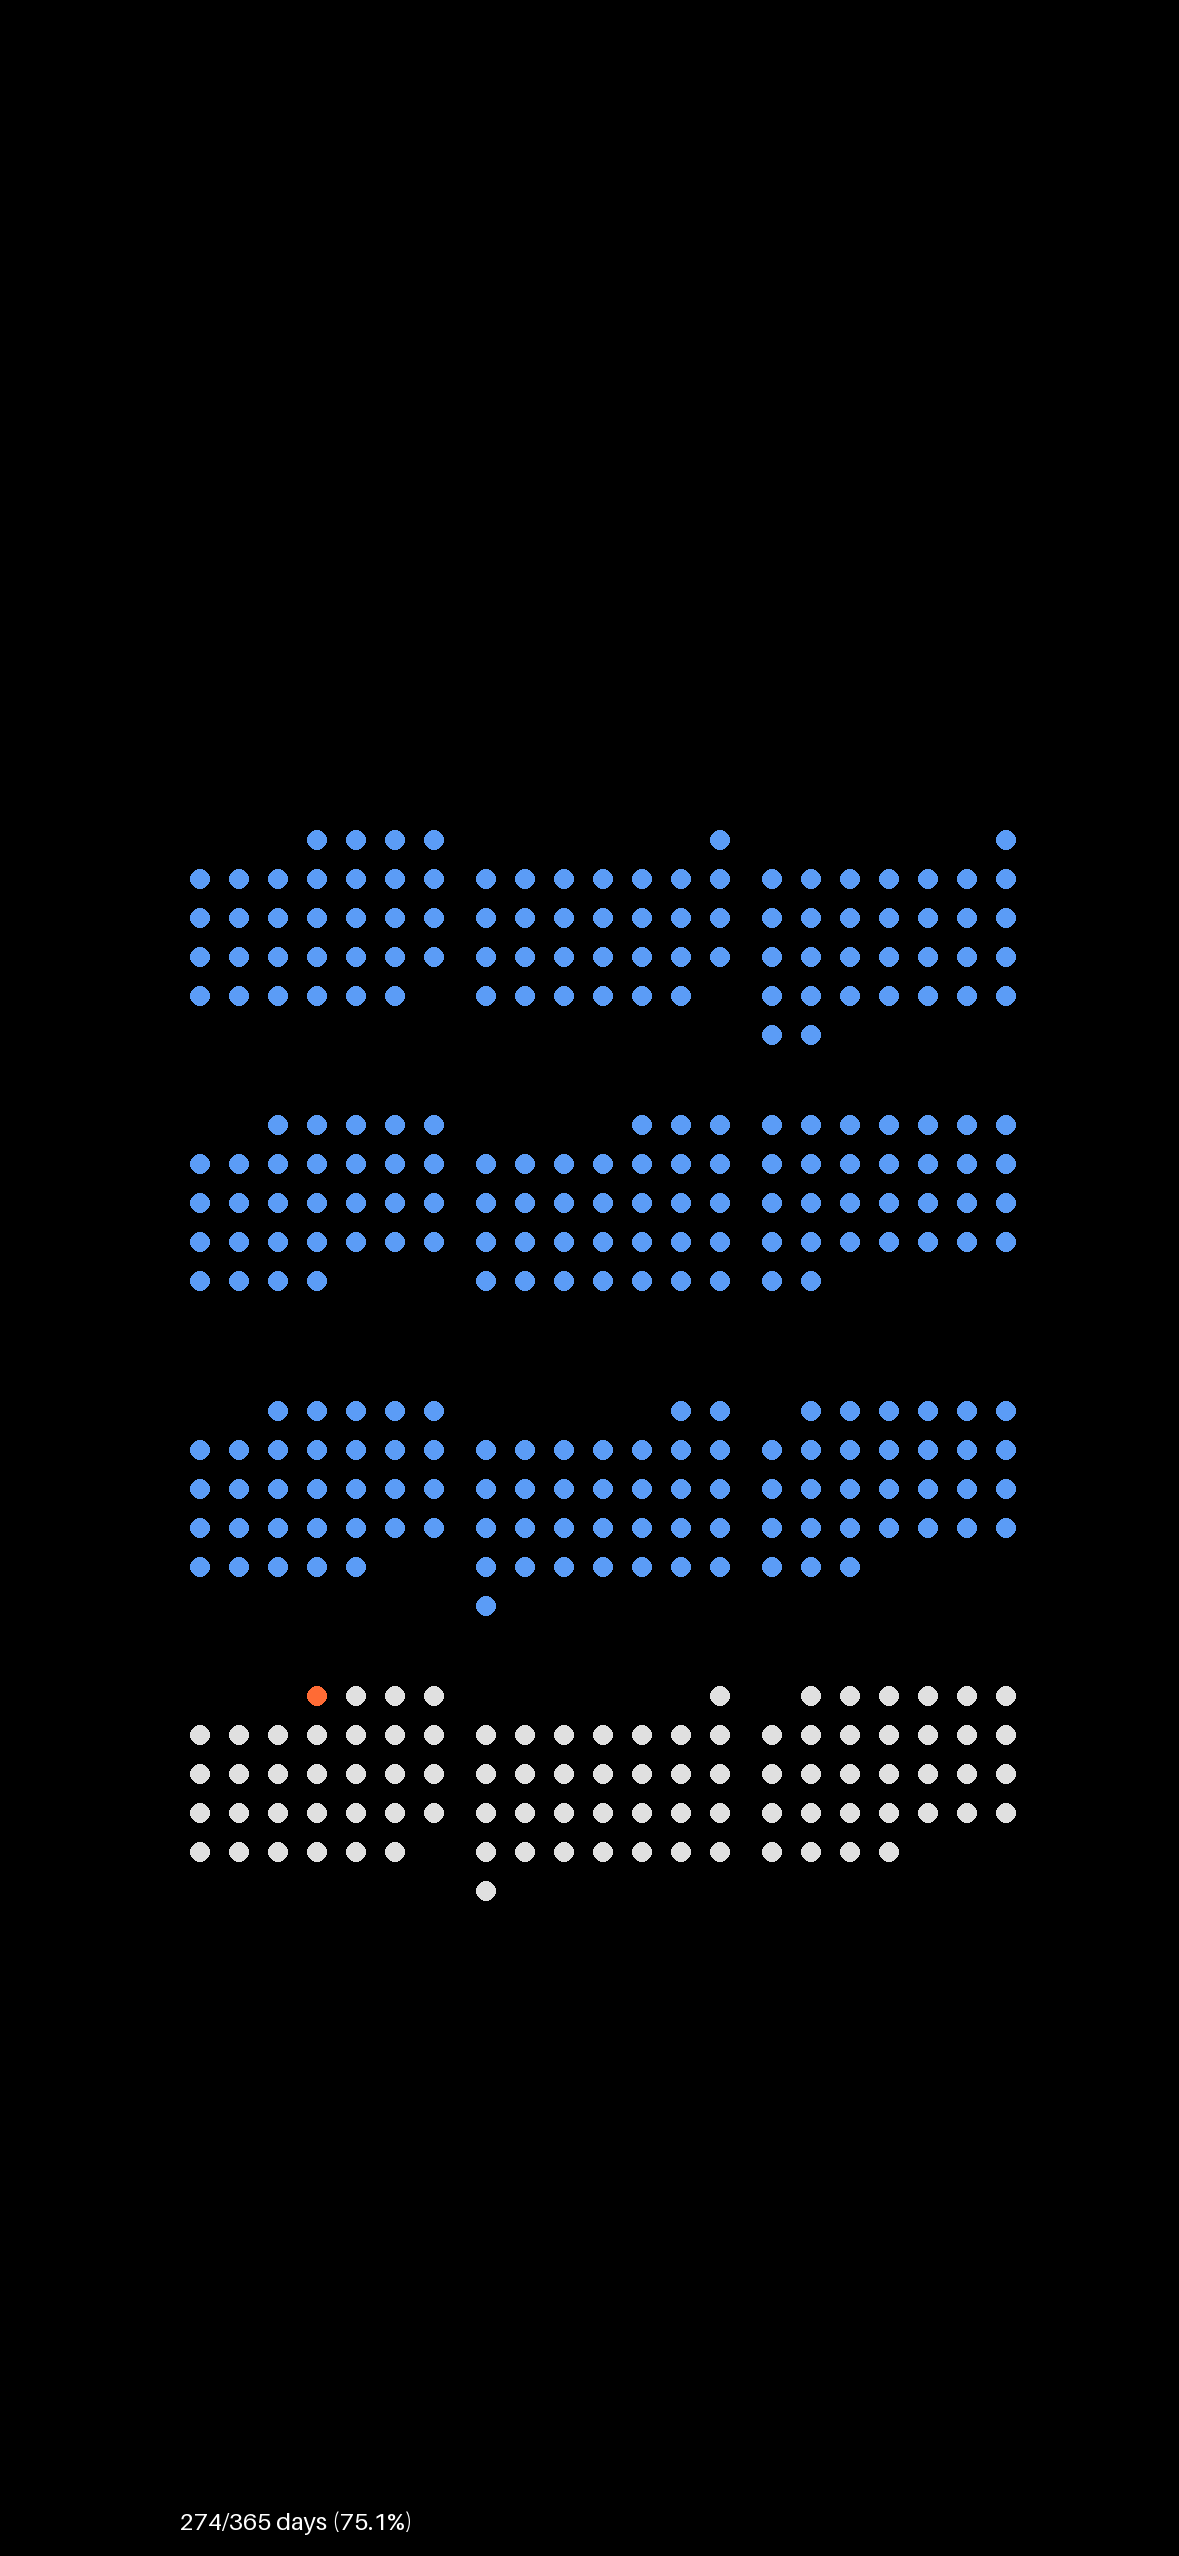
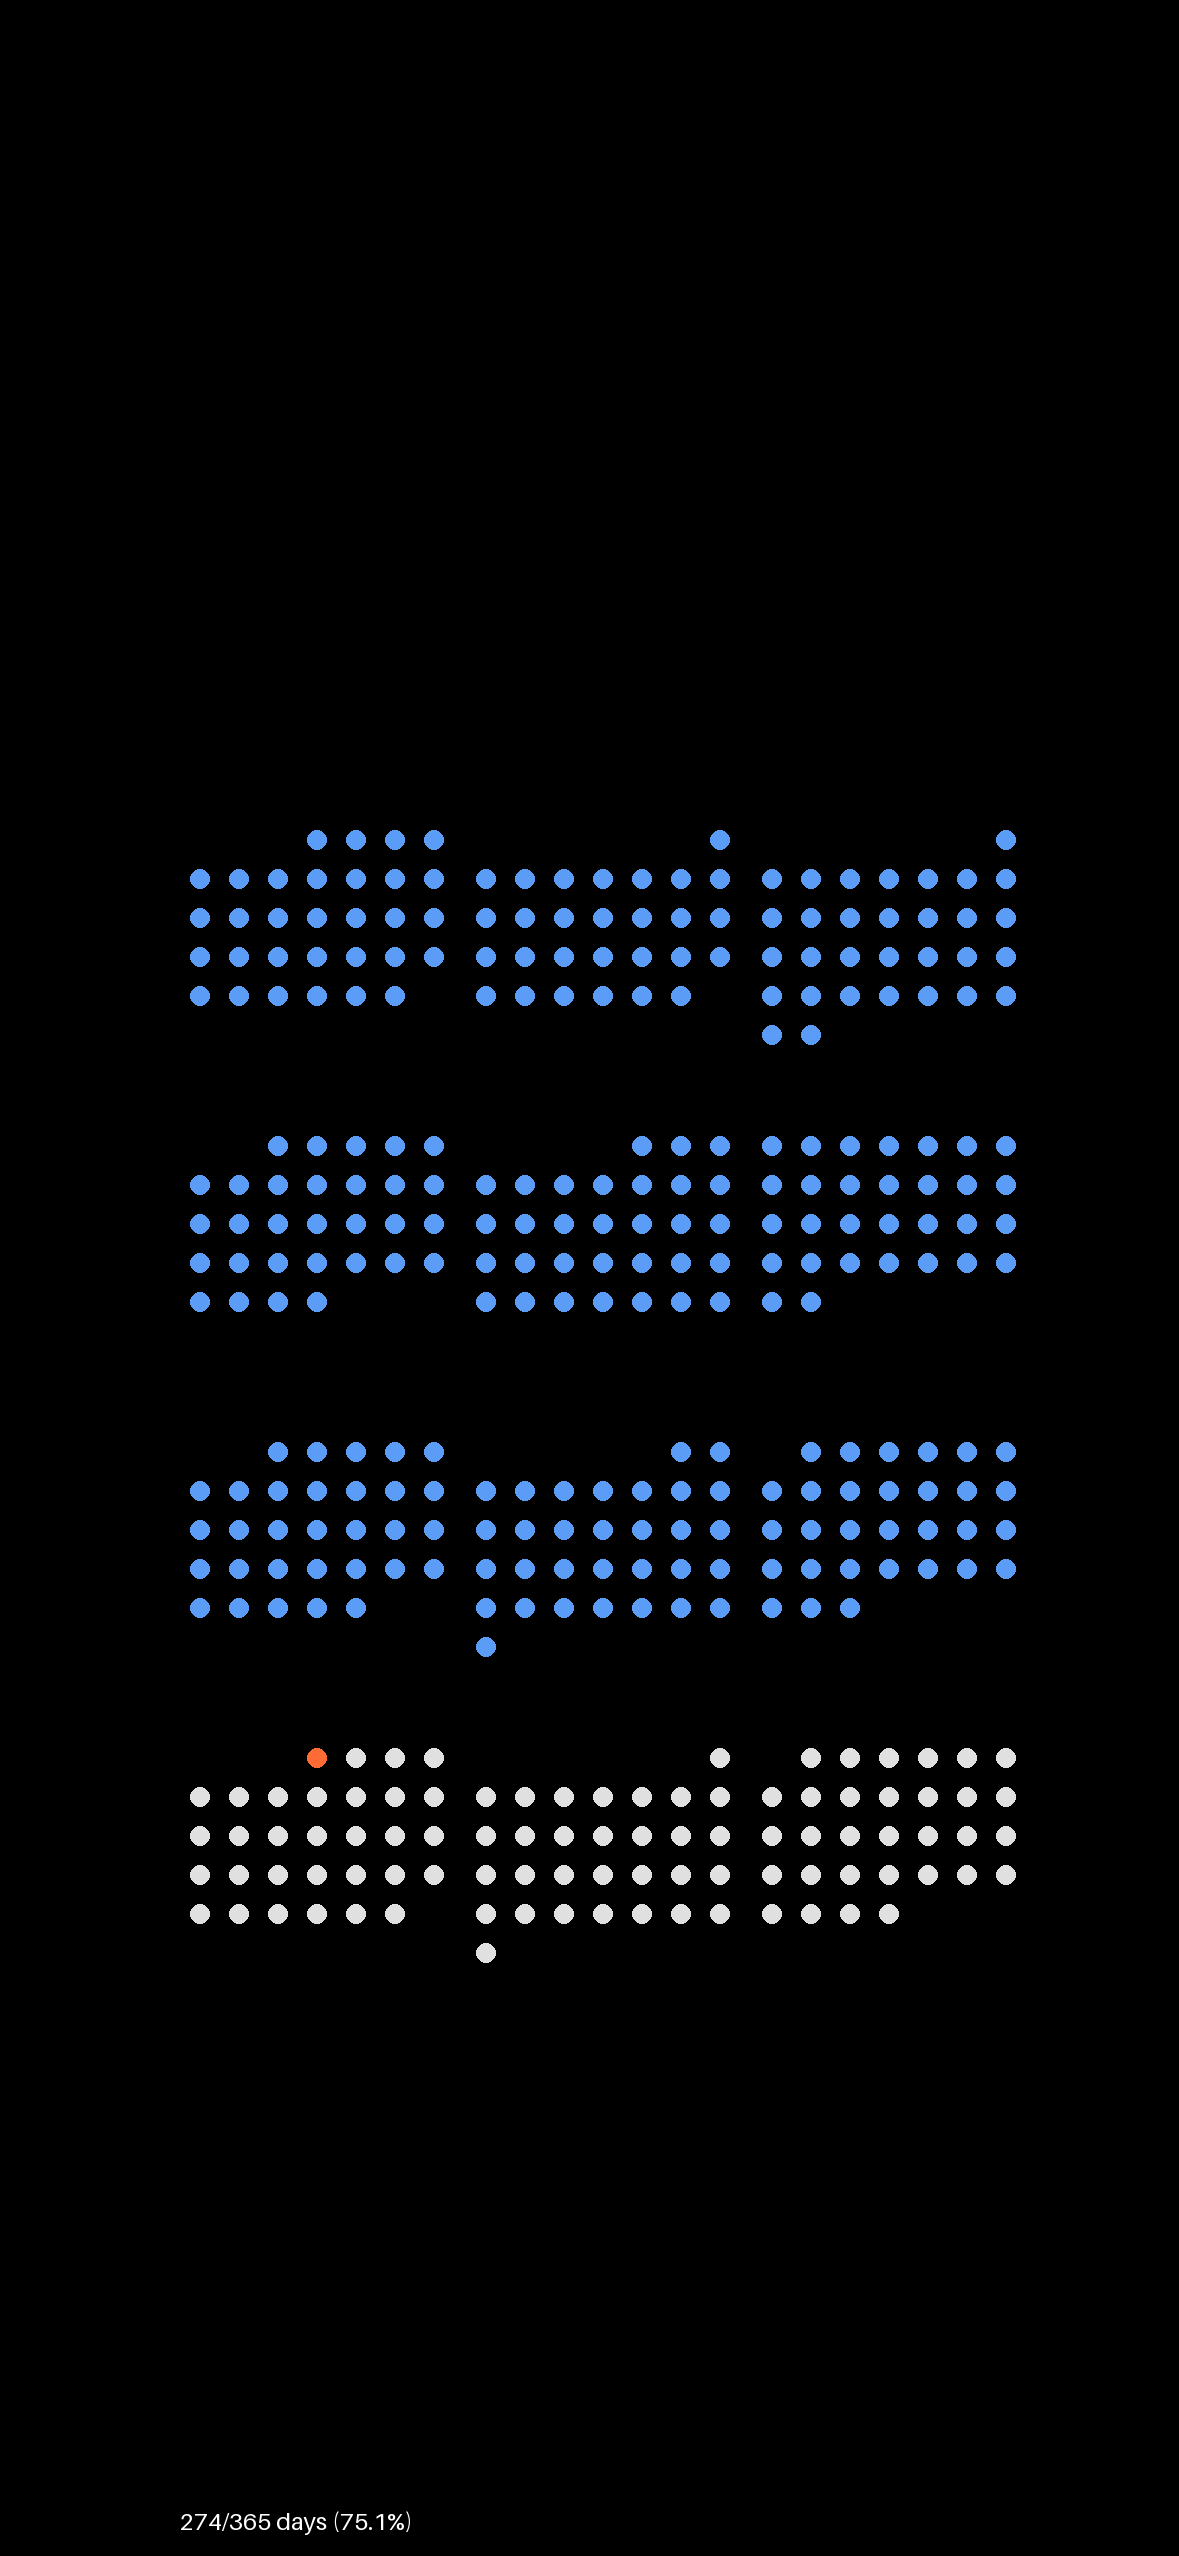
ref

diff --git a/calendar_generator/config.py b/calendar_generator/config.py
@@ -1,34 +1,94 @@
 from dataclasses import dataclass, field
 from datetime import date
 
+
 @dataclass
 class CalendarConfig:
-    width:int=1179
-    height:int=2556
-    background_color:str="#000000"
-    start_date:str=""
-    end_date:str=""
-    scale:float=1.0
-    day_style:str="circle"
-    padding:dict=field(default_factory=dict)
-    colors:dict=field(default_factory=dict)
-    circle_ratio:float=0.75
+    width: int = 1179
+    height: int = 2556
+    background_color: str = "#000000"
+    start_date: str = ""
+    end_date: str = ""
+    scale: float = 1.0
+    day_style: str = "circle"
+    padding: dict = field(default_factory=dict)
+    colors: dict = field(default_factory=dict)
+    circle_ratio: float = 0.75
 
     @classmethod
-    def from_event(cls,e):
-        t=date.today()
-        return cls(
-            width=e.get("width",1179),
-            height=e.get("height",2556),
-            background_color=e.get("background_color","#000000"),
-            start_date=e.get("start_date",f"{t.year}-01-01"),
-            end_date=e.get("end_date",f"{t.year}-12-31"),
-            scale=float(e.get("scale",1.0)),
-            day_style=e.get("day_style","circle"),
-            padding=e.get("padding",{"top":250,"bottom":300,"left":40,"right":40}),
-            colors=e.get("colors",{
-                "past":"#5B9CF6","future":"#E0E0E0",
-                "today":"#FF6B35","text":"#000000"
-            }),
-            circle_ratio=e.get("circle_ratio", 0.75)
+    def from_event(cls, event):
+        today = date.today()
+
+        config = cls(
+            width=int(event.get("width", 1179)),
+            height=int(event.get("height", 2556)),
+            background_color=event.get("background_color", "#000000"),
+            start_date=event.get(
+                "start_date",
+                f"{today.year}-01-01",
+            ),
+            end_date=event.get(
+                "end_date",
+                f"{today.year}-12-31",
+            ),
+            scale=float(event.get("scale", 1.0)),
+            day_style=event.get("day_style", "circle"),
+            padding=event.get(
+                "padding",
+                {
+                    "top": 250,
+                    "bottom": 300,
+                    "left": 40,
+                    "right": 40,
+                },
+            ),
+            colors=event.get(
+                "colors",
+                {
+                    "past": "#5B9CF6",
+                    "future": "#E0E0E0",
+                    "today": "#FF6B35",
+                    "text": "#000000",
+                },
+            ),
+            circle_ratio=float(
+                event.get("circle_ratio", 0.75)
+            ),
         )
+
+        config.validate()
+
+        return config
+
+    def validate(self):
+        if self.width <= 0:
+            raise ValueError("width must be positive")
+
+        if self.height <= 0:
+            raise ValueError("height must be positive")
+
+        if self.scale <= 0:
+            raise ValueError("scale must be positive")
+
+        if not 0 < self.circle_ratio <= 1:
+            raise ValueError(
+                "circle_ratio must be between 0 and 1"
+            )
+
+        start = date.fromisoformat(self.start_date)
+        end = date.fromisoformat(self.end_date)
+
+        if start > end:
+            raise ValueError(
+                "start_date must not be later than end_date"
+            )
+
+        if start.year != end.year:
+            raise ValueError(
+                "Only one year is supported"
+            )
+
+        if self.day_style not in {"circle", "rectangle", "number"}:
+            raise ValueError(
+                "day_style must be circle, rectangle or number"
+            )

diff --git a/calendar_generator/renderer/calendar.py b/calendar_generator/renderer/calendar.py
@@ -1,11 +1,14 @@
 import io, base64, calendar
 from datetime import datetime, date, timedelta
-import math
+
 from PIL import Image, ImageDraw, ImageFont
+
+from calendar_generator.config import CalendarConfig
 from calendar_generator.layouts.years import compute_year_grid
 from calendar_generator.progress import calc_progress
 
-def render_png_base64(cfg):
+
+def render_png_base64(cfg: "CalendarConfig"):
     img=Image.new("RGB",(cfg.width,cfg.height),cfg.background_color)
     draw=ImageDraw.Draw(img)
     font=ImageFont.load_default(size=24)
@@ -18,6 +21,21 @@ def render_png_base64(cfg):
     area_w=cfg.width-pad["left"]-pad["right"]
     area_h=cfg.height-pad["top"]-pad["bottom"]-520
 
+    if cfg.width <= 0:
+        raise ValueError("width must be positive")
+
+    if cfg.height <= 0:
+        raise ValueError("height must be positive")
+
+    if cfg.scale <= 0:
+        raise ValueError("scale must be positive")
+
+    if not 0 < cfg.circle_ratio <= 1:
+        raise ValueError("circle_ratio must be between 0 and 1")
+
+    if cfg.start_date > cfg.end_date:
+        raise ValueError("start_date must not be later than end_date")
+
     years=list(range(start.year,end.year+1))
     rows,cols=compute_year_grid(years)
 
@@ -26,15 +44,27 @@ def render_png_base64(cfg):
 
     if len(years) == 1:
         month_cols = 3  # столбцы 
+        month_rows = 4  # строки
+    else :
+        month_cols = 4  # столбцы 
         month_rows = 3  # строки
-    else:
-        return "Error: Only one year is supported for rendering."
 
     max_month_w = block_w // month_cols
-    max_month_h = block_h // month_rows * 0.7
+    max_month_h = block_h // month_rows
+    
+    base_cell = min(
+        (max_month_w - 10) // 7,
+        (max_month_h - 18) // 6
+    )
 
-    cell=min((max_month_w-10)//7,(max_month_h-18)//6)
-    cell=max(2,int(cell*cfg.scale))
+    cell = max(2, int(base_cell * cfg.scale))
+
+    max_cell = min(
+        (max_month_w - 10) // 7,
+        (max_month_h - 18) // 6
+    )
+
+    cell = min(cell, max_cell)
 
     for idx,year in enumerate(years):
         bx=pad["left"]+(idx%cols)*block_w
@@ -61,7 +91,8 @@ def render_png_base64(cfg):
 
             # Координаты месяца
             i_cols = (month - 1) % month_cols
-            i_rows = (month - 1) // month_rows
+            i_rows = (month - 1) // month_cols
+
             # ряд
             mx = bx + i_cols * max_month_w
             # столбец
@@ -97,8 +128,8 @@ def render_png_base64(cfg):
                     x = mx + c * cell
                     y = my + r * cell
 
-                    circle_ratio = 0.5
-                    diameter = int(cell * circle_ratio)
+                    circle_ratio = min(1.0, max(0.0, float(cfg.circle_ratio)))
+                    diameter = max(1, int(cell * circle_ratio))
                     offset = (cell - diameter) // 2
 
                     if cfg.day_style=="circle":

diff --git a/main.py b/main.py
@@ -1,43 +1,32 @@
-import base64
 import json
 
 from calendar_generator.config import CalendarConfig
-from calendar_generator.renderer.calendar import render_png, render_png_base64
+from calendar_generator.renderer.calendar import render_png_base64
+
 
 def handler(event, context):
-    cfg = CalendarConfig.from_event(event or {})
-    png_b64 = render_png_base64(cfg)
-    return {
-        "statusCode": 200,
-        "headers": {"Content-Type": "image/png"},
-        "isBase64Encoded": True,
-        "body": png_b64,
-        # "body": json.dumps(
-            # {
-            #     'event': event,
-            #     'context': context,
-            # }, 
-            # default=vars,
-        # ),
-    }
+    try:
+        cfg = CalendarConfig.from_event(event or {})
+        png_b64 = render_png_base64(cfg)
 
+        return {
+            "statusCode": 200,
+            "headers": {
+                "Content-Type": "image/png",
+            },
+            "isBase64Encoded": True,
+            "body": png_b64,
+        }
 
-if __name__ == "__main__":
-    cfg = CalendarConfig(
-        width=1179,
-        height=2556,
-        background_color="#000000",
-        start_date="2026-01-01",
-        end_date="2026-12-31",
-        scale=1,
-        day_style="circle",
-        padding={"top": 800, "bottom": 10, "left": 180, "right": 140},
-        colors={
-            "past": "#5B9CF6",
-            "future": "#E0E0E0",
-            "today": "#FF6B35",
-            "text": "#FFFFFF",
-        },
-        circle_ratio=0.75
-    )
-    png_b64 = render_png(cfg, "test.png")
+    except ValueError as exc:
+        return {
+            "statusCode": 400,
+            "headers": {
+                "Content-Type": "application/json",
+            },
+            "isBase64Encoded": False,
+            "body": json.dumps(
+                {"error": str(exc)},
+                ensure_ascii=False,
+            ),
+        }

diff --git a/generate.py b/generate.py
@@ -1,0 +1,23 @@
+from calendar_generator.config import CalendarConfig
+from calendar_generator.renderer.calendar import render_png
+
+if __name__ == "__main__":
+    cfg = CalendarConfig(
+        width=1179,
+        height=2556,
+        background_color="#000000",
+        start_date="2026-01-01",
+        end_date="2026-12-31",
+        scale=1,
+        day_style="circle",
+        padding={"top": 800, "bottom": 10, "left": 180, "right": 140},
+        colors={
+            "past": "#5B9CF6",
+            "future": "#E0E0E0",
+            "today": "#FF6B35",
+            "text": "#FFFFFF",
+        },
+        circle_ratio=0.5,
+    )
+    png_b64 = render_png(cfg, "test.png")
+
